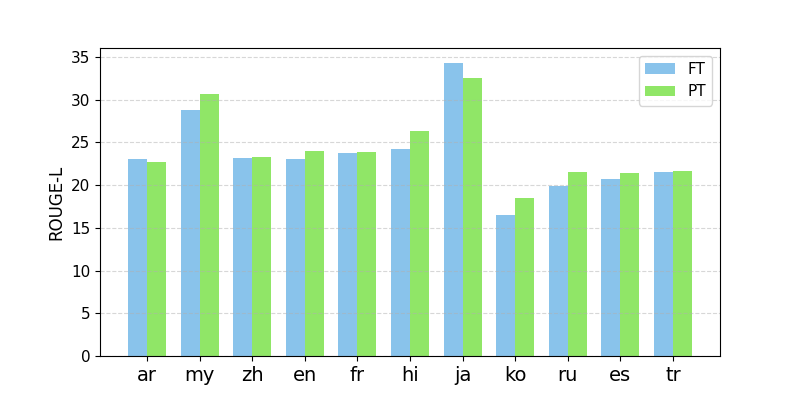
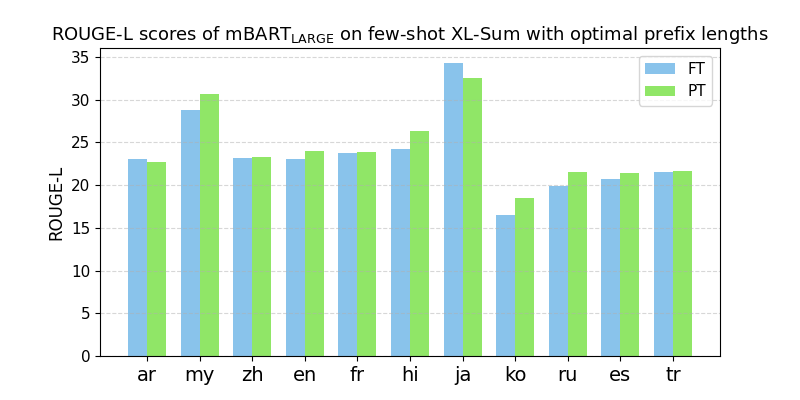
update plot

Changed region(s): [[0.0625, 0.06, 0.9688, 0.12]]

diff --git a/plot.py b/plot.py
@@ -37,7 +37,7 @@ plt.ylabel("ROUGE-L", fontsize=12)
 plt.grid(axis='y', linestyle='--', alpha=0.5)
 
 # 添加标题和标签
-# plt.title('ROUGE-L scores of mBART$_\mathdefault{LARGE}$', fontsize=18)
+plt.title('ROUGE-L scores of mBART$_\mathdefault{LARGE}$ on XL-Sum', fontsize=14)
 # plt.xlabel('')
 # plt.ylabel('')
 plt.tick_params(labelsize=11)
@@ -57,6 +57,7 @@ plt.bar(x, mt5_finetune, width, label='FT', color=COLORS[0])
 plt.bar(x+width, mt5_prefix, width, label='PT', color=COLORS[1])
 plt.bar(x+width*2, mt5_lora, width, label='LoRA', color=COLORS[2])
 plt.grid(axis='y', linestyle='--', alpha=0.5)
+plt.title('ROUGE-L scores of mT5$_\mathdefault{BASE}$ on XL-Sum', fontsize=14)
 plt.tick_params(labelsize=11)
 plt.xticks(x+width, languages, fontsize=14)
 plt.ylabel("ROUGE-L", fontsize=12)
@@ -78,6 +79,7 @@ fig, ax1 = plt.subplots(figsize=(8, 4))
 ax1.bar(x, mbart_finetune, width, label='FT', color=COLORS[0])
 ax1.bar(x+width, mbart_prefix_optlen, width, label='PT', color=COLORS[1])
 ax1.grid(axis='y', linestyle='--', alpha=0.5)
+plt.title('ROUGE-L scores of mBART$_\mathdefault{LARGE}$ on XL-Sum with optimal prefix lengths', fontsize=14)
 ax1.tick_params(labelsize=11)
 plt.xticks(x+width/2, languages, fontsize=14)
 plt.ylabel("ROUGE-L", fontsize=12)
@@ -97,6 +99,7 @@ plt.figure(figsize=(8, 4))
 plt.bar(x, mbart_finetune_fewshot, width, label='FT', color=COLORS[0])
 plt.bar(x+width, mbart_prefix_optlen_fewshot, width, label='PT', color=COLORS[1])
 plt.grid(axis='y', linestyle='--', alpha=0.5)
+plt.title('ROUGE-L scores of mBART$_\mathdefault{LARGE}$ on few-shot XL-Sum with optimal prefix lengths', fontsize=13)
 plt.tick_params(labelsize=11)
 plt.xticks(x+width/2, languages, fontsize=14)
 plt.ylabel("ROUGE-L", fontsize=12)
